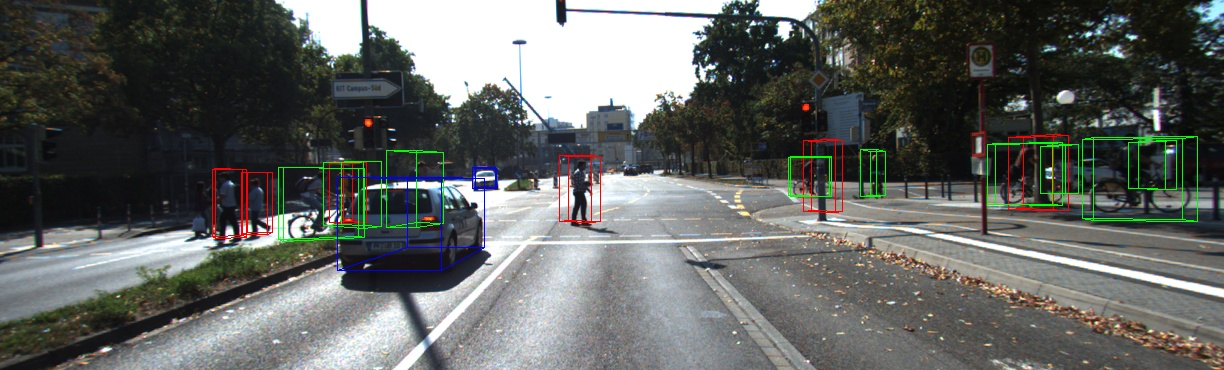
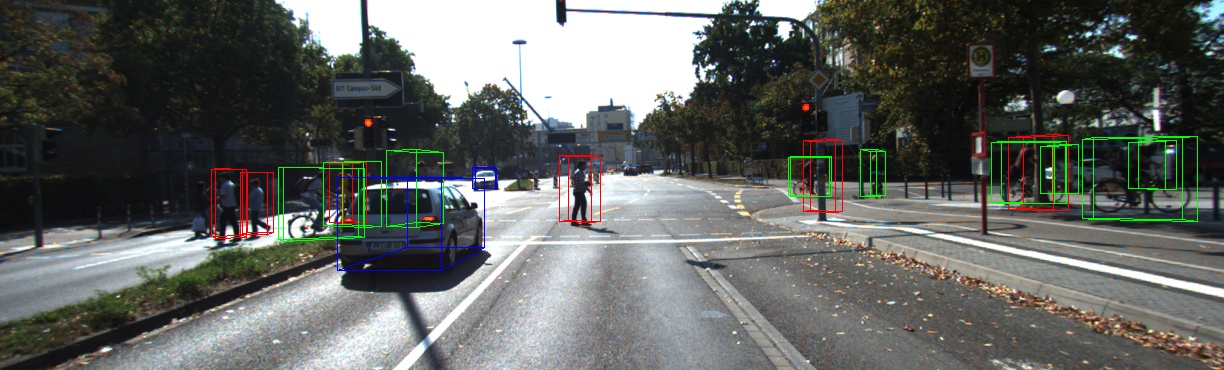
Demo open3d dependency fix

diff --git a/models/experimental/pointpillars/reference/ops/iou3d_module.py b/models/experimental/pointpillars/reference/ops/iou3d_module.py
@@ -2,93 +2,6 @@
 
 import torch
 
-# from pointpillars.ops.iou3d_op import boxes_overlap_bev_gpu, boxes_iou_bev_gpu, nms_gpu, nms_normal_gpu
-
-
-# def boxes_overlap_bev(boxes_a, boxes_b):
-#     """Calculate boxes Overlap in the bird view.
-
-#     Args:
-#         boxes_a (torch.Tensor): Input boxes a with shape (M, 5).
-#         boxes_b (torch.Tensor): Input boxes b with shape (N, 5).
-
-#     Returns:
-#         ans_overlap (torch.Tensor): Overlap result with shape (M, N).
-#     """
-#     ans_overlap = boxes_a.new_zeros(
-#         torch.Size((boxes_a.shape[0], boxes_b.shape[0])))
-
-#     boxes_overlap_bev_gpu(boxes_a.contiguous(), boxes_b.contiguous(), ans_overlap)
-
-#     return ans_overlap
-
-
-# def boxes_iou_bev(boxes_a, boxes_b):
-#     """Calculate boxes IoU in the bird view.
-
-#     Args:
-#         boxes_a (torch.Tensor): Input boxes a with shape (M, 5).
-#         boxes_b (torch.Tensor): Input boxes b with shape (N, 5).
-
-#     Returns:
-#         ans_iou (torch.Tensor): IoU result with shape (M, N).
-#     """
-#     ans_iou = boxes_a.new_zeros(
-#         torch.Size((boxes_a.shape[0], boxes_b.shape[0])))
-
-#     boxes_iou_bev_gpu(boxes_a.contiguous(), boxes_b.contiguous(), ans_iou)
-
-#     return ans_iou
-
-
-# def nms_cuda(boxes, scores, thresh, pre_maxsize=None, post_max_size=None):
-#     """Nms function with gpu implementation.
-
-#     Args:
-#         boxes (torch.Tensor): Input boxes with the shape of [N, 5]
-#             ([x1, y1, x2, y2, ry]).
-#         scores (torch.Tensor): Scores of boxes with the shape of [N].
-#         thresh (int): Threshold.
-#         pre_maxsize (int): Max size of boxes before nms. Default: None.
-#         post_maxsize (int): Max size of boxes after nms. Default: None.
-
-#     Returns:
-#         torch.Tensor: Indexes after nms.
-#     """
-#     order = scores.sort(0, descending=True)[1]
-
-#     if pre_maxsize is not None:
-#         order = order[:pre_maxsize]
-#     boxes = boxes[order].contiguous()
-
-#     keep = torch.zeros(boxes.size(0), dtype=torch.long)
-#     num_out = nms_gpu(boxes, keep, thresh, boxes.device.index)
-#     keep = order[keep[:num_out].cuda(boxes.device)].contiguous()
-#     if post_max_size is not None:
-#         keep = keep[:post_max_size]
-#     return keep
-
-
-# def nms_normal_gpu(boxes, scores, thresh):
-#     """Normal non maximum suppression on GPU.
-
-#     Args:
-#         boxes (torch.Tensor): Input boxes with shape (N, 5).
-#         scores (torch.Tensor): Scores of predicted boxes with shape (N).
-#         thresh (torch.Tensor): Threshold of non maximum suppression.
-
-#     Returns:
-#         torch.Tensor: Remaining indices with scores in descending order.
-#     """
-#     order = scores.sort(0, descending=True)[1]
-
-#     boxes = boxes[order].contiguous()
-
-#     keep = torch.zeros(boxes.size(0), dtype=torch.long)
-#     num_out = nms_normal_gpu(boxes, keep, thresh,
-#                                         boxes.device.index)
-#     return order[keep[:num_out].cuda(boxes.device)].contiguous()
-
 
 def boxes_overlap_bev(boxes_a, boxes_b):
     """
@@ -151,49 +64,6 @@ def get_box_corners_2d(box):
     corners[:, 1] += cy
 
     return corners
-
-
-# def sutherland_hodgman(subject, clip):
-#     """Sutherland-Hodgman polygon clipping algorithm"""
-#     def inside(p, edge_p1, edge_p2):
-#         return (edge_p2[0] - edge_p1[0]) * (p[1] - edge_p1[1]) > (edge_p2[1] - edge_p1[1]) * (p[0] - edge_p1[0])
-
-#     def intersection(p1, p2, edge_p1, edge_p2):
-#         dc = edge_p1 - edge_p2
-#         dp = p1 - p2
-#         n1 = torch.cross(edge_p1, edge_p2)
-#         n2 = torch.cross(p1, p2)
-#         n3 = 1.0 / torch.cross(dc, dp)
-#         return torch.stack([(n1 * dp[0] - n2 * dc[0]) * n3,
-#                            (n1 * dp[1] - n2 * dc[1]) * n3])
-
-#     output = subject.clone()
-
-#     for i in range(len(clip)):
-#         if len(output) == 0:
-#             break
-
-#         edge_p1 = clip[i]
-#         edge_p2 = clip[(i + 1) % len(clip)]
-
-#         input_list = output
-#         output = []
-
-#         for j in range(len(input_list)):
-#             current = input_list[j]
-#             previous = input_list[j - 1]
-
-#             if inside(current, edge_p1, edge_p2):
-#                 if not inside(previous, edge_p1, edge_p2):
-#                     output.append(intersection(previous, current, edge_p1, edge_p2))
-#                 output.append(current)
-#             elif inside(previous, edge_p1, edge_p2):
-#                 output.append(intersection(previous, current, edge_p1, edge_p2))
-
-#         if len(output) > 0:
-#             output = torch.stack(output)
-
-#     return output if isinstance(output, torch.Tensor) else torch.tensor([], device=subject.device)
 
 
 def sutherland_hodgman(subject, clip):

diff --git a/models/experimental/pointpillars/reference/utils/vis_o3d.py b/models/experimental/pointpillars/reference/utils/vis_o3d.py
@@ -1,86 +1,9 @@
 import cv2
-import numpy as np
-import open3d as o3d
-import os
-from models.experimental.pointpillars.reference.utils import bbox3d2corners
-
 
 COLORS = [[1, 0, 0], [0, 1, 0], [0, 0, 1], [1, 1, 0]]
 COLORS_IMG = [[0, 0, 255], [0, 255, 0], [255, 0, 0], [0, 255, 255]]
 
 LINES = [[0, 1], [1, 2], [2, 3], [3, 0], [4, 5], [5, 6], [6, 7], [7, 4], [2, 6], [7, 3], [1, 5], [4, 0]]
-
-
-def npy2ply(npy):
-    ply = o3d.geometry.PointCloud()
-    ply.points = o3d.utility.Vector3dVector(npy[:, :3])
-    density = npy[:, 3]
-    colors = [[item, item, item] for item in density]
-    ply.colors = o3d.utility.Vector3dVector(colors)
-    return ply
-
-
-def ply2npy(ply):
-    return np.array(ply.points)
-
-
-def bbox_obj(points, color=[1, 0, 0]):
-    colors = [color for i in range(len(LINES))]
-    line_set = o3d.geometry.LineSet(
-        points=o3d.utility.Vector3dVector(points),
-        lines=o3d.utility.Vector2iVector(LINES),
-    )
-    line_set.colors = o3d.utility.Vector3dVector(colors)
-    return line_set
-
-
-def vis_core(plys):
-    vis = o3d.visualization.Visualizer()
-    vis.create_window()
-
-    PAR = os.path.dirname(os.path.abspath(__file__))
-    ctr = vis.get_view_control()
-    param = o3d.io.read_pinhole_camera_parameters(os.path.join(PAR, "viewpoint.json"))
-    for ply in plys:
-        vis.add_geometry(ply)
-    ctr.convert_from_pinhole_camera_parameters(param)
-
-    vis.run()
-    # param = vis.get_view_control().convert_to_pinhole_camera_parameters()
-    # o3d.io.write_pinhole_camera_parameters(os.path.join(PAR, 'viewpoint.json'), param)
-    vis.destroy_window()
-
-
-def vis_pc(pc, bboxes=None, labels=None):
-    """
-    pc: ply or np.ndarray (N, 4)
-    bboxes: np.ndarray, (n, 7) or (n, 8, 3)
-    labels: (n, )
-    """
-    if isinstance(pc, np.ndarray):
-        pc = npy2ply(pc)
-
-    mesh_frame = o3d.geometry.TriangleMesh.create_coordinate_frame(size=10, origin=[0, 0, 0])
-
-    if bboxes is None:
-        vis_core([pc, mesh_frame])
-        return
-
-    if len(bboxes.shape) == 2:
-        bboxes = bbox3d2corners(bboxes)
-
-    vis_objs = [pc, mesh_frame]
-    for i in range(len(bboxes)):
-        bbox = bboxes[i]
-        if labels is None:
-            color = [1, 1, 0]
-        else:
-            if labels[i] >= 0 and labels[i] < 3:
-                color = COLORS[labels[i]]
-            else:
-                color = COLORS[-1]
-        vis_objs.append(bbox_obj(bbox, color=color))
-    vis_core(vis_objs)
 
 
 def vis_img_3d(img, image_points, labels, rt=True):

diff --git a/models/experimental/pointpillars/demo/demo.py b/models/experimental/pointpillars/demo/demo.py
@@ -209,12 +209,7 @@ class PointPillarsDemo:
         with torch.no_grad():
             tt_cls, tt_reg, tt_dir = self.ttnn_model.forward(batched_pts=[pc_torch])
 
-        # Convert TTNN outputs to PyTorch and permute from NHWC to NCHW
-        cls_pred = tt2torch_tensor(tt_cls).permute(0, 3, 1, 2)
-        reg_pred = tt2torch_tensor(tt_reg).permute(0, 3, 1, 2)
-        dir_pred = tt2torch_tensor(tt_dir).permute(0, 3, 1, 2)
-
-        return cls_pred, reg_pred, dir_pred
+        return tt_cls, tt_reg, tt_dir
 
     def visualize_results(
         self,
@@ -347,6 +342,22 @@ class PointPillarsDemo:
 
         start_time = time.time()
         tt_cls, tt_reg, tt_dir = self.run_ttnn_inference(pc_torch)
+        tt_cls = (
+            tt2torch_tensor(tt_cls)
+            .reshape(pt_cls.shape[0], pt_cls.shape[2], pt_cls.shape[3], pt_cls.shape[1])
+            .permute(0, 3, 1, 2)
+        )
+        tt_reg = (
+            tt2torch_tensor(tt_reg)
+            .reshape(pt_reg.shape[0], pt_reg.shape[2], pt_reg.shape[3], pt_reg.shape[1])
+            .permute(0, 3, 1, 2)
+        )
+        tt_dir = (
+            tt2torch_tensor(tt_dir)
+            .reshape(pt_dir.shape[0], pt_dir.shape[2], pt_dir.shape[3], pt_dir.shape[1])
+            .permute(0, 3, 1, 2)
+        )
+
         tt_inference_time = time.time() - start_time
         logger.info(f"TTNN inference time: {tt_inference_time * 1000:.2f} ms")
 
@@ -381,7 +392,7 @@ Example usage:
     )
     parser.add_argument(
         "--ckpt",
-        default="models/experimental/pointpillars/reference/model/epoch_160.pth",
+        default="models/experimental/pointpillars/resources/epoch_160.pth",
         help="Path to checkpoint file",
     )
     parser.add_argument("--pc_path", required=True, help="Path to point cloud file (.bin)")

diff --git a/models/experimental/pointpillars/reference/ops/voxel_module.py b/models/experimental/pointpillars/reference/ops/voxel_module.py
@@ -3,9 +3,6 @@
 import torch
 import torch.nn as nn
 
-# from pointpillars.ops.voxel_op import hard_voxelize
-
-
 import torch
 
 
@@ -114,21 +111,6 @@ class _Voxelization(torch.autograd.Function):
             num_points_per_voxel: [M] int32 tensor. Only returned when
                 max_points != -1.
         """
-
-        # voxels = points.new_zeros(
-        #     size=(max_voxels, max_points, points.size(1)))
-        # coors = points.new_zeros(size=(max_voxels, 3), dtype=torch.int)
-        # num_points_per_voxel = points.new_zeros(
-        #     size=(max_voxels, ), dtype=torch.int)
-        # voxel_num = hard_voxelize(points, voxels, coors,
-        #                             num_points_per_voxel, voxel_size,
-        #                             coors_range, max_points, max_voxels, 3,
-        #                             deterministic)
-        # # select the valid voxels
-        # voxels_out = voxels[:voxel_num]
-        # coors_out = coors[:voxel_num].flip(-1) # (z, y, x) -> (x, y, z)
-        # num_points_per_voxel_out = num_points_per_voxel[:voxel_num]
-
         voxels_out, coors_out, num_points_per_voxel_out = hard_voxelize_pytorch(
             points, voxel_size, coors_range, max_points, max_voxels
         )

diff --git a/models/experimental/pointpillars/reference/utils/__init__.py b/models/experimental/pointpillars/reference/utils/__init__.py
@@ -22,4 +22,4 @@ from .process import (
     bbox3d2corners_camera,
     points_camera2image,
 )
-from .vis_o3d import vis_pc, vis_img_3d
+from .vis_o3d import vis_img_3d
